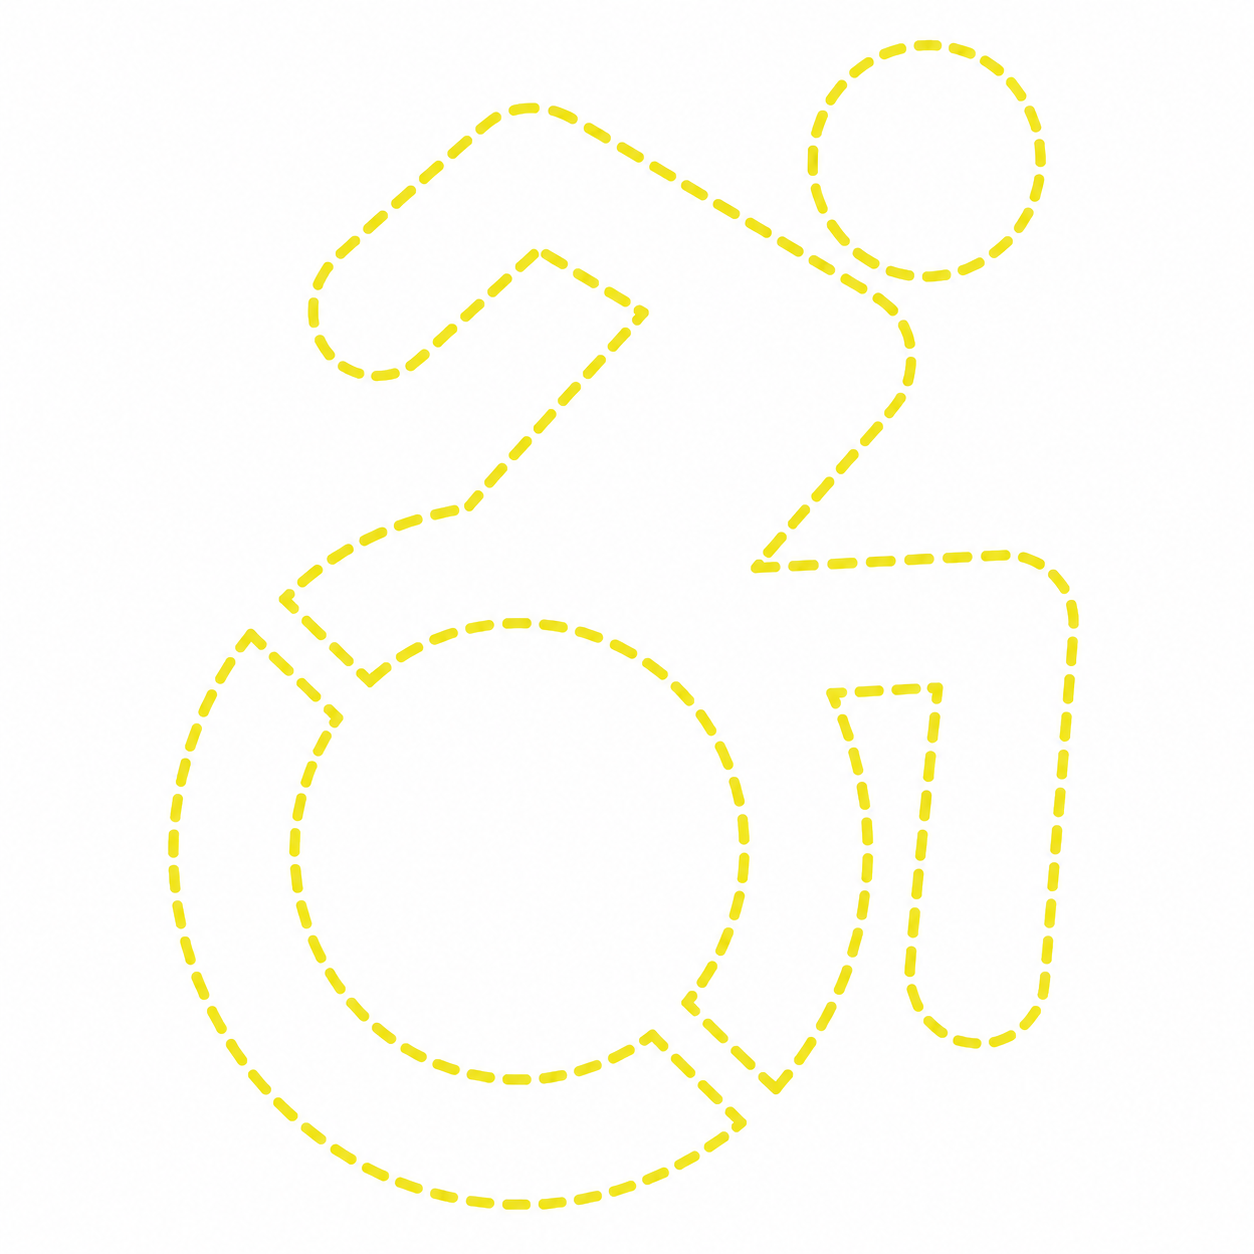
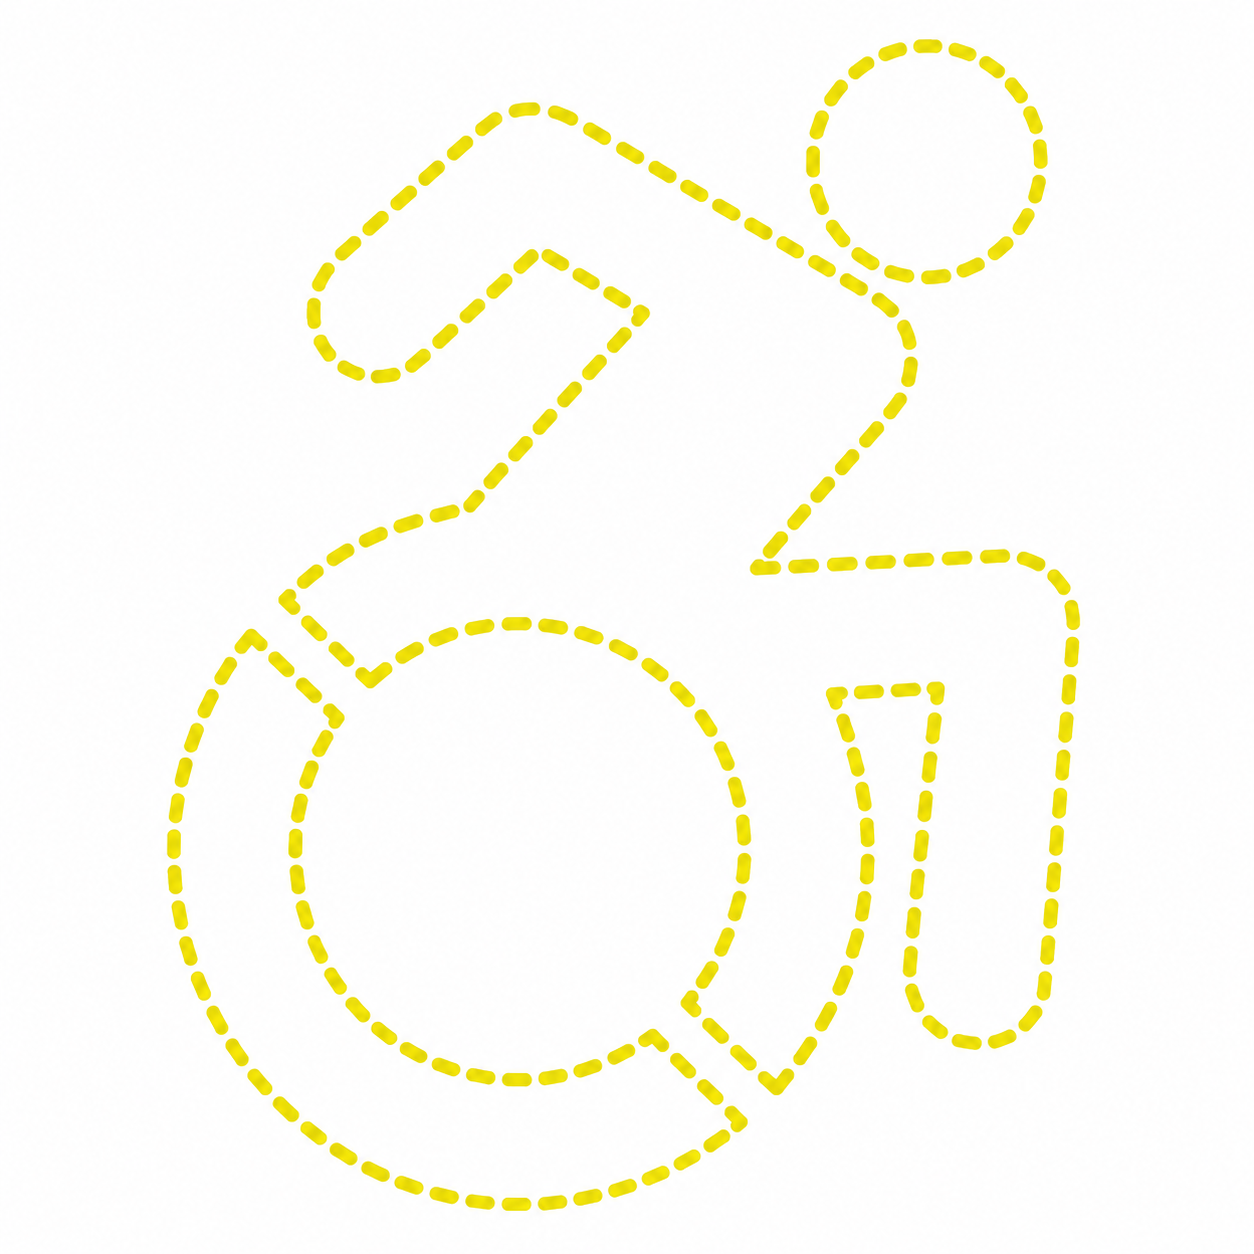
Wordmark in Roc Grotesk Extra Wide, wider search bar
DEAD ON in Extra Wide Black over Disabled Bays in Extra Wide Light, with
DEAD ON sized in app.js to match the second line's width. The search bar
now spans the filter row, and Near me follows the bar's corner radius.

diff --git a/docs/assets/styles.css b/docs/assets/styles.css
@@ -78,10 +78,11 @@ a { color: var(--link); font-weight: 600; text-decoration-thickness: 2px; text-u
 /* Wordmark set live in Roc Grotesk Wide (Adobe Fonts) so it stays sharp and is read as text. */
 .brand { display: flex; align-items: center; gap: var(--s1); margin: 0; color: #F0F039; letter-spacing: 0; }
 .brand-icon { flex: none; width: 36px; height: 46px; margin-right: 2px; fill: var(--blue); } /* traced from brand/disabled-icon.png */
-.brand-text { display: block; position: relative; }
-.brand-top, .brand-bottom { display: block; font-family: "roc-grotesk-wide", var(--font); white-space: nowrap; }
-.brand-top { font-weight: 700; font-size: 30px; line-height: 26px; text-transform: uppercase; }
-.brand-bottom { font-weight: 400; font-size: 21.6px; line-height: 22px; }
+.brand-text { display: block; }
+/* Roc Grotesk Extra Wide: Black over Light. app.js sizes "DEAD ON" so both lines are the same width. */
+.brand-top, .brand-bottom { display: block; width: max-content; font-family: "roc-grotesk-extrawide", "roc-grotesk-wide", var(--font); white-space: nowrap; }
+.brand-top { font-weight: 900; font-size: 26px; line-height: 0.9; text-transform: uppercase; }
+.brand-bottom { font-weight: 300; font-size: 15px; line-height: 20px; }
 
 /* Search and filters float over the top of the map. */
 .map-overlay {
@@ -163,7 +164,7 @@ input[type="search"]:focus-visible { outline-offset: -3px; box-shadow: none; }
 .near-me {
   flex: none; display: inline-flex; align-items: center; gap: var(--s2);
   min-height: 44px; padding: 0 var(--s4); margin-right: 2px;
-  border: 0; border-radius: 10px; background: var(--yellow); color: var(--ink);
+  border: 0; border-radius: 18px; background: var(--yellow); color: var(--ink); /* 18px inside the bar's 2px edge = the bar's 20px curve */
   font: 600 16px/20px var(--font); white-space: nowrap; cursor: pointer;
 }
 .near-me:hover { background: #E2E30A; }
@@ -294,13 +295,14 @@ dialog::backdrop { background: rgba(9, 55, 115, .7); }
 @media (min-width: 900px) and (min-height: 560px) {
   body { height: 100vh; height: 100dvh; display: flex; flex-direction: column; overflow: hidden; }
   .site-header { padding: var(--s3) var(--s6); }
-  .map-overlay { right: auto; width: min(560px, 100%); padding: var(--s4); }
+  /* As wide as the filter row, so the pills sit in one line under the search bar; wraps if the map is narrower. */
+  .map-overlay { right: auto; width: max-content; max-width: 100%; padding: var(--s4); }
   .chips { flex-wrap: wrap; overflow: visible; margin: 0; padding: 0; }
   main {
     flex: 1 1 auto; min-height: 0;
     /* The list scrolls; the map stays in view beside it. */
     overflow-y: auto; container-type: size;
-    display: grid; grid-template-columns: 460px 1fr;
+    display: grid; grid-template-columns: 420px 1fr;
   }
   .results { grid-column: 1; grid-row: 1; padding: var(--s6); }
   .map-section { grid-column: 2; grid-row: 1; position: sticky; top: 0; align-self: start; height: calc(100vh - 60px); height: 100cqh; }

diff --git a/docs/assets/app.js b/docs/assets/app.js
@@ -625,7 +625,21 @@
     $('about-close').addEventListener('click', function () { if (about.close) about.close(); else about.removeAttribute('open'); });
   }
 
+  // Size "DEAD ON" so it is exactly as wide as "Disabled Bays", whatever font has loaded.
+  function fitBrand() {
+    var top = document.querySelector('.brand-top'), bottom = document.querySelector('.brand-bottom');
+    if (!top || !bottom) return;
+    top.style.fontSize = '20px';
+    var ratio = bottom.getBoundingClientRect().width / top.getBoundingClientRect().width;
+    if (ratio > 0 && isFinite(ratio)) top.style.fontSize = (20 * ratio).toFixed(2) + 'px';
+  }
+
   function start() {
+    fitBrand();
+    if (document.fonts) {
+      document.fonts.ready.then(fitBrand);
+      document.fonts.addEventListener('loadingdone', fitBrand);
+    }
     wire();
     initMap();
     fetch('assets/places.json').then(function (r) {
